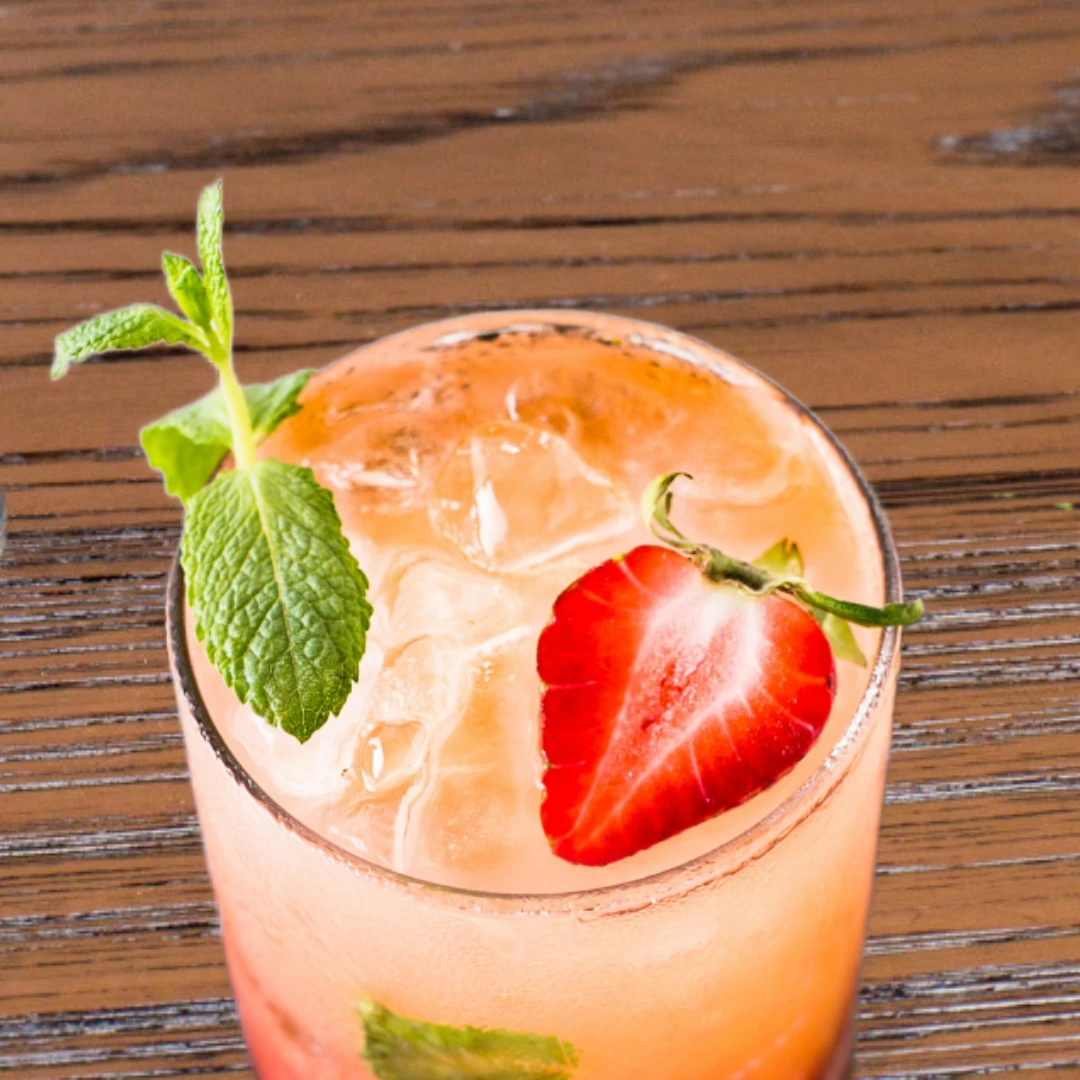
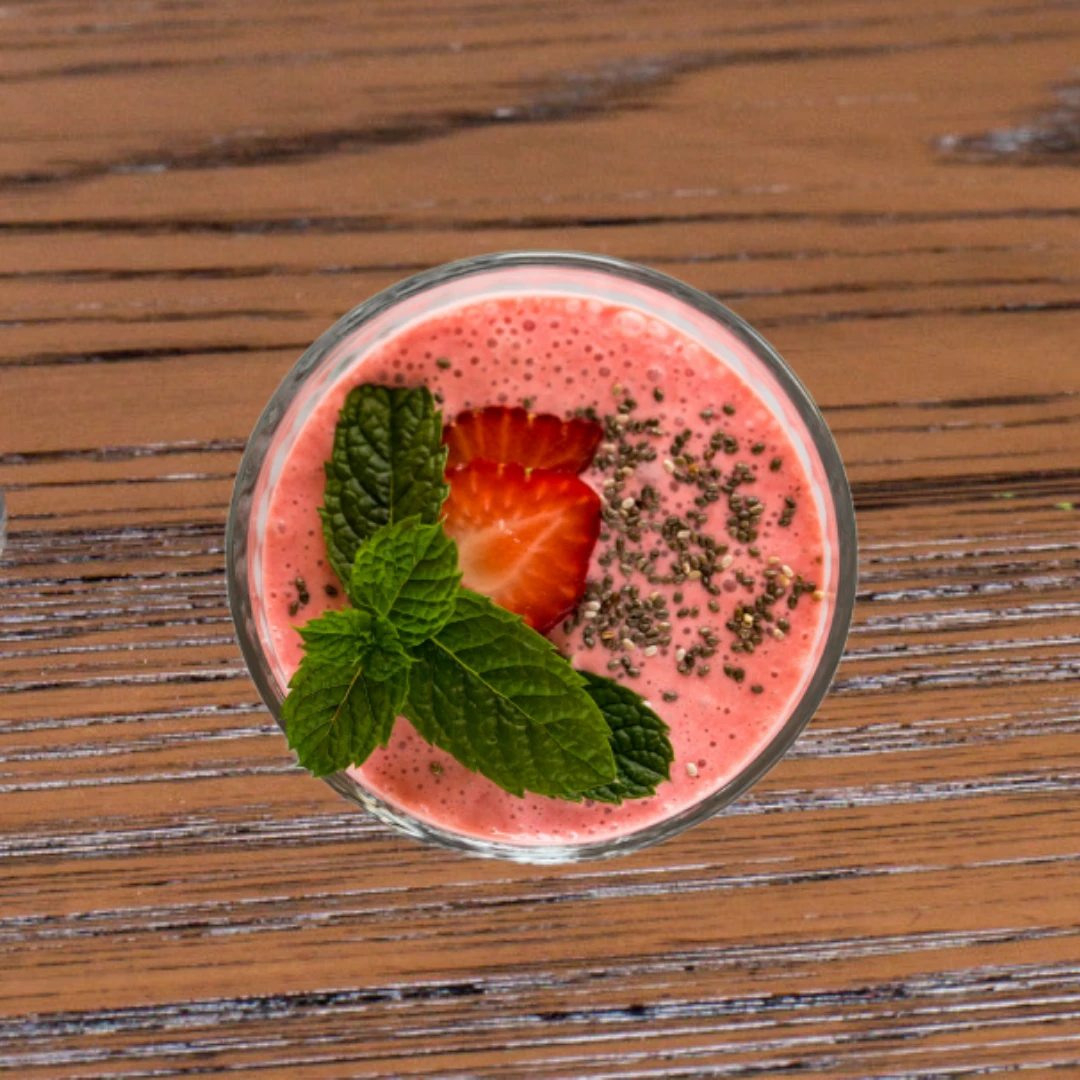
optimise cafePage imgs

diff --git a/src/pages/cafePage.js b/src/pages/cafePage.js
@@ -23,7 +23,7 @@ const MenuItems = () => (
             <div id='menu-container' className={Styles['menu-container']}>
                 <div id='breakfast' className={Styles['menu-category']}>
                     <div className={`${Styles.menuCategorImg}`}>
-                        <Image src="/assets//cafe/Breakfeast3.jpg" alt='breakfast image' width={150} height={150} className={Styles['breakfastImg']} placeholder="empty" priority />
+                        <Image src="/assets/cafe/breakfast.webp" alt='breakfast image' width={150} height={150} className={Styles['breakfastImg']} placeholder="empty" priority />
                     </div>
                     <div className={Styles["menu-category-detail"]}>
                         <h3>Breakfast</h3>
@@ -54,12 +54,12 @@ const MenuItems = () => (
                         </ul>
                     </div>
                     <div className={Styles["menuCategorImg"]}>
-                        <Image src="/assets/cafe/Croissant.jpg" alt='croissaints image' width={150} height={150} className={Styles['croissaintImg']} placeholder="empty" priority />
+                        <Image src="/assets/cafe/croissant.webp" alt='croissaints image' width={150} height={150} className={Styles['croissaintImg']} placeholder="empty" loading="lazy" />
                     </div>
                 </div>
                 <div id='salads' className={Styles['menu-category']}>
                     <div className={Styles["menuCategorImg"]}>
-                        <Image src="/assets/cafe/Salad1.jpg" alt='salad image' width={150} height={150} className={Styles['saladsImg']} placeholder="empty" priority />
+                        <Image src="/assets/cafe/salad.webp" alt='salad image' width={150} height={150} className={Styles['saladsImg']} placeholder="empty" loading="lazy" />
                     </div>
                     <div className={Styles["menu-category-detail"]}>
                         <h3>Salads</h3>
@@ -87,12 +87,12 @@ const MenuItems = () => (
                         </ul>
                     </div>
                     <div className={Styles["menuCategorImg"]}>
-                        <Image src="/assets/cafe/Burger2.jpg" alt='burger image' width={150} height={150} className={Styles['menuImgs']} placeholder="empty" priority />
+                        <Image src="/assets/cafe/burger.webp" alt='burger image' width={150} height={150} className={Styles['menuImgs']} placeholder="empty" loading="lazy" />
                     </div>
                 </div>
                 <div id='extras' className={Styles['menu-category']}>
                     <div className={Styles["menuCategorImg"]}>
-                        <Image src="/assets/cafe/Extra1.jpg" alt='burger image' width={150} height={150} className={Styles['menuImgs']} placeholder="empty" priority />
+                        <Image src="/assets/cafe/extra.webp" alt='burger image' width={150} height={150} className={Styles['menuImgs']} placeholder="empty" loading="lazy" />
                     </div>
                     <div className={Styles["menu-category-detail"]}>
                         <h3>Extras</h3>
@@ -140,12 +140,12 @@ const MenuItems = () => (
                         </ul>
                     </div>
                     <div className={Styles["menuCategorImg"]}>
-                        <Image src="/assets/cafe/juice1.webp" alt='juice image' width={150} height={150} className={Styles['menuImgs']} placeholder="empty" priority />
+                        <Image src="/assets/cafe/juice.webp" alt='juice image' width={150} height={150} className={Styles['menuImgs']} placeholder="empty" loading="lazy" />
                     </div>
                 </div>
                 <div id='cold-drinks' className={Styles['menu-category']}>
                     <div className={Styles["menuCategorImg"]}>
-                        <Image src="/assets/cafe/coldDrink.webp" alt='cold drinks image' width={150} height={150} className={Styles['menuImgs']} placeholder="empty" priority />
+                        <Image src="/assets/cafe/coldDrink.webp" alt='cold drinks image' width={150} height={150} className={Styles['menuImgs']} placeholder="empty" loading="lazy" />
                     </div>
                     <div className={Styles["menu-category-detail"]}>
                         <h3>Cold Drinks</h3>
@@ -187,12 +187,12 @@ const MenuItems = () => (
                         </ul>
                     </div>
                     <div className={Styles["menuCategorImg"]}>
-                        <Image src="/assets/cafe/Coffee1.jpg" alt='coffee image' width={150} height={150} className={Styles['menuImgs']} placeholder="empty" priority />
+                        <Image src="/assets/cafe/coffee.webp" alt='coffee image' width={150} height={150} className={Styles['menuImgs']} placeholder="empty" loading="lazy" />
                     </div>
                 </div>
                 <div id='mocktails' className={Styles['menu-category']}>
                     <div className={Styles["menuCategorImg"]}>
-                        <Image src="/assets/cafe/Mocktail.jpg" alt='mocktail image' width={150} height={150} className={Styles['menuImgs']} placeholder="empty" priority />
+                        <Image src="/assets/cafe/mocktail.webp" alt='mocktail image' width={150} height={150} className={Styles['menuImgs']} placeholder="empty" loading="lazy" />
                     </div>
                     <div className={Styles["menu-category-detail"]}>
                         <h3>Mocktails</h3>
@@ -219,7 +219,7 @@ const MenuItems = () => (
                         </ul>
                     </div>
                     <div className={Styles["menuCategorImg"]}>
-                        <Image src="/assets/cafe/Smoothy1.jpg" alt='Smoothy image' width={150} height={150} className={Styles['menuImgs']} placeholder="empty" priority />
+                        <Image src="/assets/cafe/smoothie.webp" alt='Smoothy image' width={150} height={150} className={Styles['menuImgs']} placeholder="empty" loading="lazy" />
                     </div>
                 </div>
             </div>

diff --git a/src/styles/pages/cafePage.module.scss b/src/styles/pages/cafePage.module.scss
@@ -7,7 +7,7 @@
         display: flex;
         justify-content: start;
         align-items: center;
-        background-image: url('/assets/cafeCanvasBg.jpg');
+        background-image: url('/assets/cafe/cafeCanvasBg.webp');
         background-size: cover;
         background-position: center;
         background-repeat: no-repeat;
@@ -52,7 +52,7 @@
             line-height: 20px;
             display: flex;
             flex-wrap: wrap;
-            background-image: url('/assets/menuBg3.jpg');
+            background-image: url('/assets/cafe/menuBg.webp');
             background-size: cover;
             //background-position: center;
             background-repeat: no-repeat;
